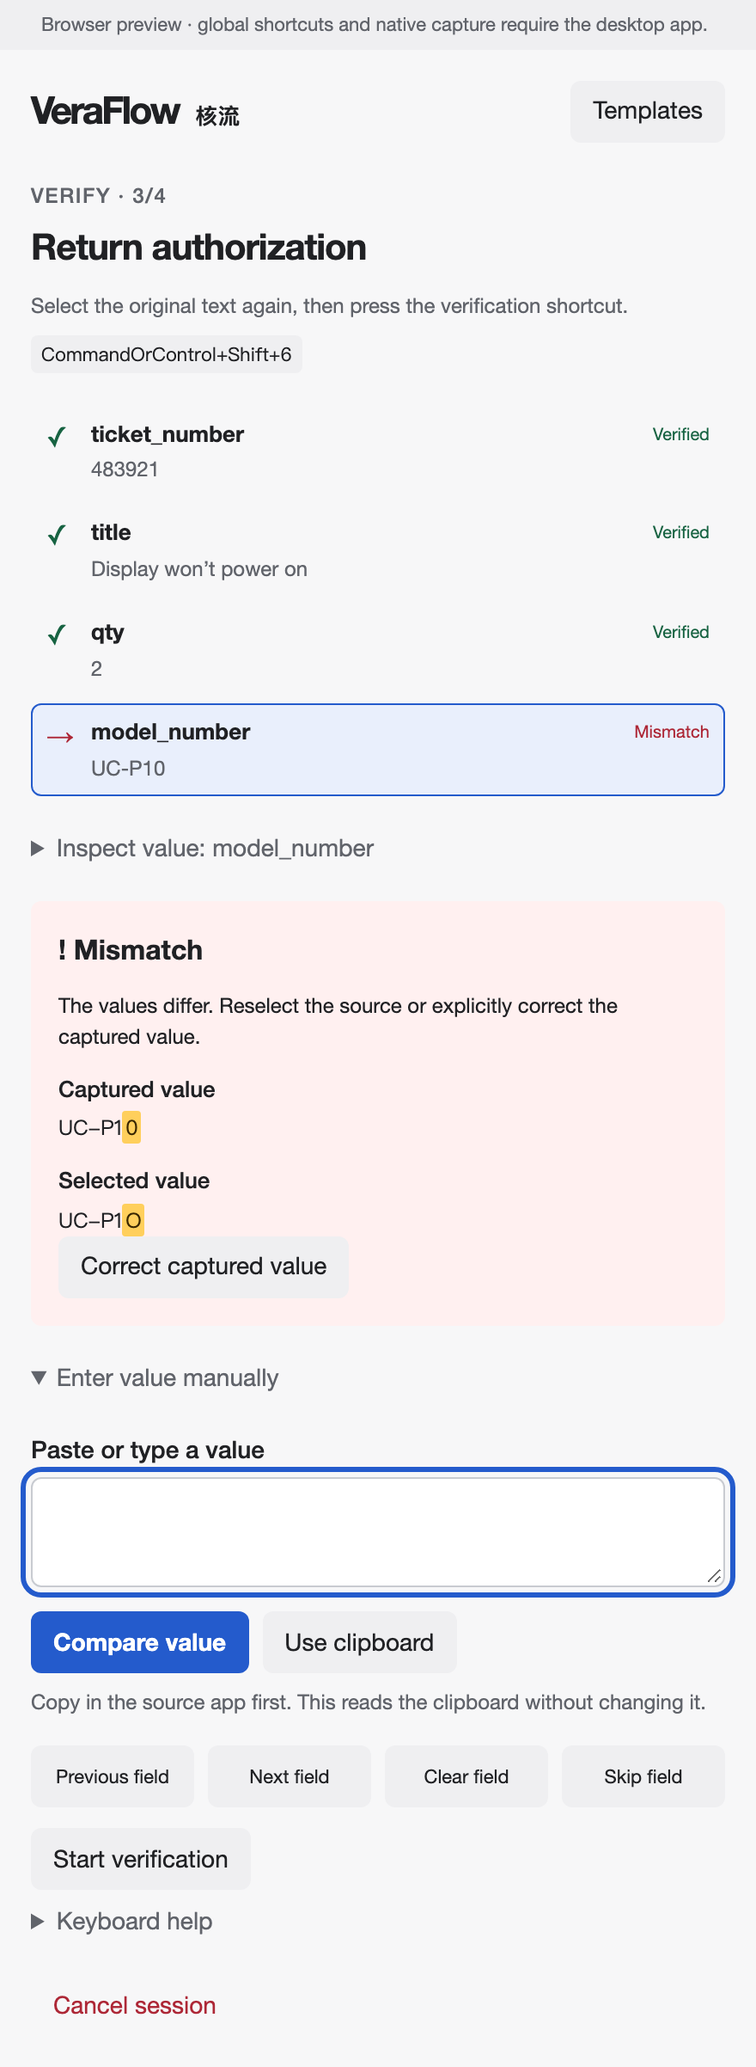
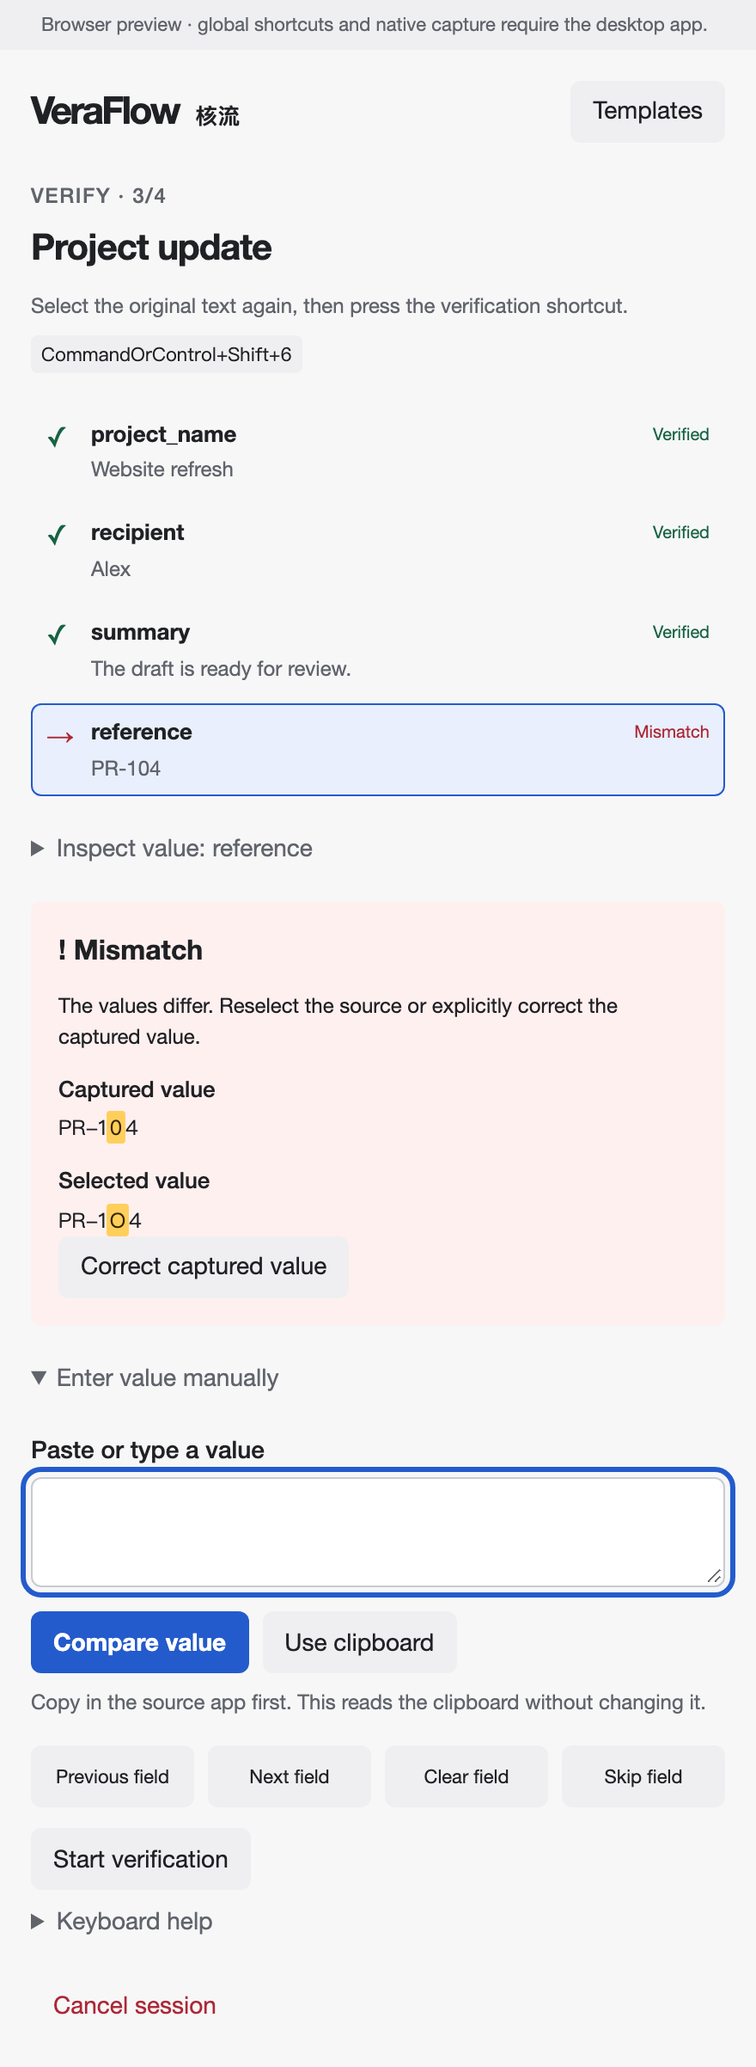
Release VeraFlow 0.3.0 keyboard workflow improvements

diff --git a/src/main.ts b/src/main.ts
@@ -119,6 +119,18 @@ function applyAppearance() {
 }
 function render() {
   applyAppearance();
+  const verified =
+    view === "session" &&
+    session?.mode === "ready" &&
+    session.template.verificationEnabled &&
+    session.fields.some((f) => f.status === "verified") &&
+    session.fields.every(
+      (f) => f.status === "verified" || f.status === "skipped",
+    );
+  document.body.classList.toggle(
+    "verified-background",
+    !!verified && library.preferences.verifiedBackground,
+  );
   root.className = view === "session" ? "compact" : "";
   root.innerHTML = `${view !== "session" ? `<header class="appbar"><span class="wordmark">VeraFlow <span lang="zh-CN">核流</span></span><nav aria-label="${esc(t("app"))}">${button("nav-templates", "templates", view === "templates" ? "selected" : "")}${session ? button("nav-session", "session") : ""}${button("nav-settings", "settings", view === "settings" ? "selected" : "")}</nav></header>` : ""}
     ${!desktop ? `<aside class="preview-banner">${esc(t("browserPreview"))}</aside>` : ""}
@@ -169,7 +181,7 @@ function editorView(): string {
   <div class="metadata"> <div>${field("template-name", "name", d.name, 'maxlength="250"')}</div><div>${field("template-folder", "folder", d.folder, 'maxlength="250"')}</div></div>
   <label for="template-content">${esc(t("content"))}</label><textarea id="template-content" class="code template-text" spellcheck="false" aria-describedby="placeholder-help">${esc(d.content)}</textarea><p id="placeholder-help" class="hint">${esc(t("placeholderHelp"))}</p>
   <div class="editor-bottom"><section><h2>${esc(t("fields"))}</h2><ol id="field-order" class="field-order">${orderView()}</ol></section><details><summary>${esc(t("templateSettings"))}</summary>${check("template-verify", "verificationEnabled", d.verificationEnabled)}${comparisonView(d.comparison, "template")}</details></div>
-  <div class="actions">${button("save", "save")}${button("start", "start", "primary")}</div>`;
+  <div class="actions">${button("save", "save")}${button("start", "start", "primary")}</div><p class="hint">${esc(t("keyboardHelp"))}</p>`;
 }
 function orderView(): string {
   return (
@@ -350,9 +362,9 @@ async function navigate(next: typeof view) {
 function settingsView(): string {
   const p = (settingsDraft ??= structuredClone(library.preferences));
   return `<main class="settings"><header><h1>${esc(t("settings"))}</h1></header><div class="settings-grid"><section><h2>${esc(t("general"))}</h2><label for="language">${esc(t("language"))}</label><select id="language"><option value="en" ${p.language === "en" ? "selected" : ""}>English</option><option value="zh-CN" ${p.language === "zh-CN" ? "selected" : ""}>简体中文</option></select><label for="theme">${esc(t("theme"))}</label><select id="theme">${(["SYSTEM", "LIGHT", "DARK"] as const).map((theme) => `<option value="${theme}" ${theme === p.theme ? "selected" : ""}>${esc(t(theme))}</option>`).join("")}</select>${check("launchAtLogin", "launchAtLogin", p.launchAtLogin)}${check("minimizeToTray", "minimizeToTray", p.minimizeToTray)}${check("alwaysOnTop", "alwaysOnTop", p.alwaysOnTop)}${check("autoAdvance", "autoAdvance", p.autoAdvance)}</section>
-  <section><h2>${esc(t("verification"))}</h2>${check("verificationDefault", "verificationDefault", p.verificationDefault)}${comparisonView(p.comparison, "default")}</section>
+  <section><h2>${esc(t("verification"))}</h2>${check("verificationDefault", "verificationDefault", p.verificationDefault)}${check("verifiedBackground", "verifiedBackground", p.verifiedBackground)}${comparisonView(p.comparison, "default")}</section>
   <section><h2>${esc(t("privacy"))}</h2>${check("clearAfterCompletion", "clearAfterCompletion", p.clearAfterCompletion)}${check("restoreClipboard", "restoreClipboard", p.restoreClipboard)}<p class="hint">${esc(t("quitPrivacy"))}</p></section>
-  <section><h2>${esc(t("shortcuts"))}</h2><p class="hint">${esc(t("shortcutHelp"))}</p>${actions.map((action) => field("key-" + action, action === "cancel" ? "cancelSession" : action, p.shortcuts[action], 'class="shortcut-input"')).join("")}</section></div><div class="actions">${button("save-settings", "saveSettings", "primary", locked)}</div><section class="about" aria-labelledby="about-heading"><h2 id="about-heading">${esc(t("about"))}</h2><p>${esc(t("copyright"))}</p><a id="repository-link" href="https://github.com/iandorsey00/veraflow" target="_blank" rel="noopener noreferrer">${esc(t("repository"))}</a></section></main>`;
+  <section><h2>${esc(t("shortcuts"))}</h2><p class="hint">${esc(t("keyboardHelp"))}</p><p class="hint">${esc(t("shortcutHelp"))}</p>${actions.map((action) => field("key-" + action, action === "cancel" ? "cancelSession" : action, p.shortcuts[action], 'class="shortcut-input"')).join("")}</section></div><div class="actions">${button("save-settings", "saveSettings", "primary", locked)}</div><section class="about" aria-labelledby="about-heading"><h2 id="about-heading">${esc(t("about"))}</h2><p>${esc(t("copyright"))}</p><a id="repository-link" href="https://github.com/iandorsey00/veraflow" target="_blank" rel="noopener noreferrer">${esc(t("repository"))}</a></section></main>`;
 }
 function bindSettings() {
   if (desktop)
@@ -372,6 +384,7 @@ function bindSettings() {
     "alwaysOnTop",
     "autoAdvance",
     "verificationDefault",
+    "verifiedBackground",
     "clearAfterCompletion",
     "restoreClipboard",
   ] as const)
@@ -533,12 +546,14 @@ function bindSession() {
     focus(manualOpen ? "manual-value" : `field-${session?.active ?? 0}`);
   });
 }
-async function accept(value: string) {
+async function accept(
+  value: string,
+  advance = library.preferences.autoAdvance,
+) {
   if (!session) return;
   if (value.length > 1024 * 1024) throw new Error("invalidText");
-  if (session.mode === "verify")
-    verify(session, value, library.preferences.autoAdvance);
-  else capture(session, value, library.preferences.autoAdvance);
+  if (session.mode === "verify") verify(session, value, advance);
+  else capture(session, value, advance);
   message = "";
   preview = false;
   render();
@@ -563,10 +578,12 @@ async function perform(action: Action) {
       if (s.mode === "verify")
         await accept(
           await platform.capture(library.preferences.restoreClipboard),
+          true,
         );
       else if (s.mode !== "ready")
         await accept(
           await platform.capture(library.preferences.restoreClipboard),
+          true,
         );
       return;
     case "verify":
@@ -577,6 +594,7 @@ async function perform(action: Action) {
       if (s.mode === "verify")
         await accept(
           await platform.capture(library.preferences.restoreClipboard),
+          true,
         );
       return;
     case "previous":
@@ -652,12 +670,47 @@ root.addEventListener("change", () => {
 });
 window.addEventListener("keydown", (event) => {
   if (
+    event.repeat ||
+    event.isComposing ||
+    busy ||
+    document.querySelector("dialog[open]")
+  )
+    return;
+  if (
     (event.metaKey || event.ctrlKey) &&
-    event.key === "Enter" &&
-    view === "session"
+    !event.altKey &&
+    !event.shiftKey &&
+    event.key === "Enter"
   ) {
     event.preventDefault();
-    document.getElementById("apply-value")?.click();
+    if (view === "templates") document.getElementById("start")?.click();
+    else if (
+      view === "session" &&
+      session?.mode !== "ready" &&
+      session?.mode !== "complete"
+    ) {
+      if (!manualOpen) {
+        manualOpen = true;
+        render();
+        focus("manual-value");
+      } else {
+        const value = (
+          document.getElementById("manual-value") as HTMLTextAreaElement
+        ).value;
+        void run(() => accept(value, true));
+      }
+    }
+  }
+  if (
+    view === "session" &&
+    event.altKey &&
+    !event.ctrlKey &&
+    !event.metaKey &&
+    !event.shiftKey &&
+    (event.key === "ArrowLeft" || event.key === "ArrowRight")
+  ) {
+    event.preventDefault();
+    dispatch(event.key === "ArrowLeft" ? "previous" : "next");
   }
 });
 window.addEventListener("beforeunload", (event) => {

diff --git a/tests/ui/workflow.spec.ts b/tests/ui/workflow.spec.ts
@@ -139,3 +139,54 @@ test("session remains intact across library navigation and requires cancellation
   await page.getByRole("button", { name: "Keep working" }).click();
   await expect(page.locator(".field-value").first()).toHaveText("483921");
 });
+
+test("keyboard start, capture and navigation; optional verified background", async ({
+  page,
+}) => {
+  await page.getByRole("button", { name: "Settings", exact: true }).click();
+  const green = page.getByLabel("Green background when verification succeeds");
+  await expect(green).not.toBeChecked();
+  await green.check();
+  await page.getByLabel("Advance automatically", { exact: true }).uncheck();
+  await page
+    .getByRole("button", { name: "Save settings", exact: true })
+    .click();
+  await page.getByRole("button", { name: "Templates", exact: true }).click();
+  await page
+    .getByLabel("Template text", { exact: true })
+    .fill("<name> <reference>");
+  await page.keyboard.press("Control+Enter");
+  await expect(page.locator("#field-0")).toBeFocused();
+  await page.keyboard.press("Control+Enter");
+  await expect(page.getByLabel("Paste or type a value")).toBeFocused();
+  await page.keyboard.type("Alex");
+  await page.keyboard.press("Control+Enter");
+  await expect(page.locator("#field-1")).toHaveAttribute(
+    "aria-current",
+    "step",
+  );
+  await page.keyboard.press("Alt+ArrowLeft");
+  await expect(page.locator("#field-0")).toHaveAttribute(
+    "aria-current",
+    "step",
+  );
+  await page.keyboard.press("Alt+ArrowRight");
+  await page.keyboard.type("PR-104");
+  await page.keyboard.press("Control+Enter");
+  await expect(page.locator("body")).not.toHaveClass(/verified-background/);
+  await page.keyboard.type("Alex");
+  await page.keyboard.press("Control+Enter");
+  await page.keyboard.type("PR-1O4");
+  await page.keyboard.press("Control+Enter");
+  await expect(page.getByRole("heading", { name: "! Mismatch" })).toBeVisible();
+  await expect(page.locator("body")).not.toHaveClass(/verified-background/);
+  await page.getByLabel("Paste or type a value").fill("PR-104");
+  await page.keyboard.press("Control+Enter");
+  await expect(page.locator("body")).toHaveClass(/verified-background/);
+  await expect(
+    page.getByRole("button", { name: "Copy result", exact: true }),
+  ).toBeFocused();
+  await page.keyboard.press("Alt+ArrowLeft");
+  await page.getByRole("button", { name: "Clear field", exact: true }).click();
+  await expect(page.locator("body")).not.toHaveClass(/verified-background/);
+});

diff --git a/src/locales/zh-CN.ts b/src/locales/zh-CN.ts
@@ -54,7 +54,8 @@ export const zh: Record<keyof typeof en, string> = {
   mismatch: "不匹配",
   skipped: "已跳过",
   current: "当前",
-  captureHelp: "在来源应用中选择文本，然后按采集快捷键。",
+  captureHelp:
+    "在来源应用中选择文本，然后按采集快捷键复制并前进到下一个待处理字段。",
   verifyHelp: "再次选择原始文本，然后按核验快捷键。",
   verifyStart: "开始核验",
   verifySelected: "核验选中文本",
@@ -92,6 +93,9 @@ export const zh: Record<keyof typeof en, string> = {
   launchAtLogin: "登录时启动",
   minimizeToTray: "关闭窗口时最小化到菜单栏或系统托盘",
   alwaysOnTop: "采集窗口置顶",
+  verifiedBackground: "核验成功后显示绿色背景",
+  keyboardHelp:
+    "Cmd/Ctrl+Enter 开始所选模板的会话；会话中打开手动输入或提交并前进。Alt+左/右箭头切换字段。",
   autoAdvance: "自动前进到下一字段",
   verification: "核验",
   verificationEnabled: "复制前核验",

diff --git a/src/locales/en.ts b/src/locales/en.ts
@@ -55,7 +55,7 @@ export const en = {
   skipped: "Skipped",
   current: "Current",
   captureHelp:
-    "Select text in your source app, then press the capture shortcut.",
+    "Select text in your source app, then press the capture shortcut to copy and advance to the next pending field.",
   verifyHelp:
     "Select the original text again, then press the verification shortcut.",
   verifyStart: "Start verification",
@@ -96,6 +96,9 @@ export const en = {
   launchAtLogin: "Launch at login",
   minimizeToTray: "Close window to menu bar / system tray",
   alwaysOnTop: "Keep capture window on top",
+  verifiedBackground: "Green background when verification succeeds",
+  keyboardHelp:
+    "Cmd/Ctrl+Enter starts the selected template. In a session, it opens manual entry or submits and advances. Alt+Left/Right moves between fields.",
   autoAdvance: "Advance automatically",
   verification: "Verification",
   verificationEnabled: "Verify before copying",

diff --git a/src/core/model.ts b/src/core/model.ts
@@ -39,6 +39,7 @@ export type Preferences = {
   minimizeToTray: boolean;
   alwaysOnTop: boolean;
   autoAdvance: boolean;
+  verifiedBackground: boolean;
   verificationDefault: boolean;
   clearAfterCompletion: boolean;
   restoreClipboard: boolean;
@@ -52,6 +53,7 @@ export const defaultPreferences: Preferences = {
   minimizeToTray: true,
   alwaysOnTop: true,
   autoAdvance: true,
+  verifiedBackground: false,
   verificationDefault: true,
   clearAfterCompletion: true,
   restoreClipboard: true,

diff --git a/src/style.css b/src/style.css
@@ -687,3 +687,13 @@ dialog::backdrop {
   display: inline-block;
   padding: 6px 0;
 }
+
+/* A calm optional success surface, using the existing light/dark palette. */
+body.verified-background,
+body.verified-background #app,
+body.verified-background .capture-panel {
+  background: var(--success-bg);
+}
+body.verified-background {
+  min-height: 100vh;
+}

diff --git a/src-tauri/src/storage.rs b/src-tauri/src/storage.rs
@@ -29,6 +29,8 @@ pub struct Preferences {
     pub minimize_to_tray: bool,
     pub always_on_top: bool,
     pub auto_advance: bool,
+    #[serde(default)]
+    pub verified_background: bool,
     pub verification_default: bool,
     pub clear_after_completion: bool,
     pub restore_clipboard: bool,
@@ -85,10 +87,20 @@ mod tests {
         serde_json::json!({
             "version":1,"templates":[{"id":"test","name":"Example","folder":"","content":"Hello <name>","fieldOrder":["name"],"verificationEnabled":true,
                 "comparison":{"mode":"exact","caseSensitive":true,"unicode":true,"punctuation":false,"collapseLines":false}}],
-            "preferences":{"language":"en","theme":"SYSTEM","launchAtLogin":false,"minimizeToTray":true,"alwaysOnTop":true,"autoAdvance":true,"verificationDefault":true,"clearAfterCompletion":true,"restoreClipboard":true,
+            "preferences":{"language":"en","theme":"SYSTEM","launchAtLogin":false,"minimizeToTray":true,"alwaysOnTop":true,"autoAdvance":true,"verifiedBackground":false,"verificationDefault":true,"clearAfterCompletion":true,"restoreClipboard":true,
                 "comparison":{"mode":"whitespace","caseSensitive":true,"unicode":true,"punctuation":false,"collapseLines":true},
                 "shortcuts":{"capture":"Control+1","previous":"Control+2","next":"Control+3","clear":"Control+4","skip":"Control+5","verify":"Control+6","cancel":"Control+7","finish":"Control+8"}}
         })
+    }
+    #[test]
+    fn old_preferences_default_to_neutral_background() {
+        let mut value = fixture();
+        value["preferences"]
+            .as_object_mut()
+            .unwrap()
+            .remove("verifiedBackground");
+        let library: Library = serde_json::from_value(value).unwrap();
+        assert!(!library.preferences.verified_background);
     }
     #[test]
     fn valid_library_round_trips() {

diff --git a/README.md b/README.md
@@ -32,11 +32,13 @@ macOS bundles appear under `src-tauri/target/release/bundle/`. Windows builds pr
 
 1. Create or edit a template with placeholders such as `<ticket_number>`, `<客户姓名>`, or `<地址>`. Repeated names share a field. Use a folder label to organize templates, and arrow buttons to change capture order.
 2. Start a session. The same window becomes a small, resizable, always-on-top panel. Return to the source app and select text.
-3. Press the capture shortcut. The panel stores the text and advances. You can also paste/type manually, or copy in the source app and choose **Use clipboard**. Cmd/Ctrl+Enter submits manual text.
+3. Press the capture shortcut. The panel stores the text and advances. You can also paste/type manually, or copy in the source app and choose **Use clipboard**. Cmd/Ctrl+Enter opens manual entry or submits and advances. Alt+Left/Right moves to the previous/next field within VeraFlow.
 4. After the last field, verification starts if enabled. Select each original value again and press the verification shortcut. A mismatch shows both values and emphasizes the differing span; it never overwrites the captured value.
 5. Preview if desired, then choose **Copy result** or use the finish shortcut. Values are erased by default after successful copying. Skipped fields render as empty text.
 
-Default global shortcuts use **Cmd/Ctrl+Shift+1…8**: capture, previous, next, clear, skip, verify/start verification, cancel, and finish. All are configurable in Settings, registered only during sessions, and paused while the template/settings screen is shown. Registration conflicts leave the previous set in place or report an error. Capture can also verify during the verification pass. Release shortcut modifiers promptly so the copy fallback can run.
+With a template selected, **Cmd/Ctrl+Enter** starts its session. Use Tab/Shift+Tab and Enter/Space to operate the remaining controls. In Settings → Verification, **Green background when verification succeeds** optionally colors the session area after all required fields pass (off by default).
+
+Default global shortcuts use **Cmd/Ctrl+Shift+1…8**: capture, previous, next, clear, skip, verify/start verification, cancel, and finish. All are configurable in Settings, registered only during sessions, and paused while the template/settings screen is shown. Registration conflicts leave the previous set in place or report an error. Capture can also verify during the verification pass. Capture and verification shortcuts always advance after success; the automatic advancement preference controls the manual buttons. Release shortcut modifiers promptly so the copy fallback can run.
 
 The **Verify** shortcut starts the second pass when capture is complete; subsequent presses retrieve source text. Without automatic advancement, use next/previous and start verification explicitly. All populated fields must pass when verification is required. Clear a field to recapture it; corrections invalidate its verification. Cancellation, replacement, quitting an active session, and discarding unsaved changes require confirmation.
 

diff --git a/docs/release.md b/docs/release.md
@@ -1,5 +1,9 @@
 # Release and rollback
 
+## 0.3.0 scope
+
+Recommended release cycle selected RC for focused keyboard workflow and optional verification styling. Version 0.3.0 adds functionality without changing native clipboard adapters or dependencies. Existing schema-1 libraries load with `verifiedBackground` defaulting to false. This remains an unsigned source/local preview release.
+
 ## 0.2.0 scope
 
 Full release cycle (FRC): the complete first MVP was uncommitted, including security-sensitive native capture. This is a source release and unsigned local preview, not a signed public installer release. Version 0.2.0 advances the original 0.1.0 development scaffold; storage schema remains version 1.
@@ -21,4 +25,4 @@ Close VeraFlow, back up `library.json` from the OS app-data directory, then repl
 
 ## Rollback
 
-Quit the app and reinstall the last known-good binary. Keep a backup of the library before any downgrade. This version does not change schema 1; if a future version does, restore its pre-upgrade library backup with the app closed. For source rollback, check out the known-good commit in a separate checkout and rebuild with locked dependencies. Do not delete app data to work around an error; corrupt libraries fail closed for recovery. There is no prior published binary for this initial release.
+Quit the app and reinstall the last known-good binary. Keep a backup of the library before any downgrade. Although the schema number remains 1, version 0.2.0 rejects the new `verifiedBackground` preference. Restore the pre-upgrade library backup with the app closed when downgrading to 0.2.0. For source rollback, check out the known-good commit in a separate checkout and rebuild with locked dependencies. Do not delete app data to work around an error; corrupt libraries fail closed for recovery. There is no prior published binary for this initial release.

diff --git a/docs/validation.md b/docs/validation.md
@@ -4,8 +4,8 @@
 
 - TypeScript strict checks and optimized Vite production build.
 - Eight core test groups: Unicode/unique placeholders, manual order, literal rendering, normalization combinations, difference spans, verification transitions, skip/clear/navigation, and memory erasure.
-- Four Rust tests: normalized shortcut aliases/invalid keys, plus persistence valid round trip, rejection of session-shaped properties at each boundary, and invalid metadata/rules/duplicate IDs.
-- Six Playwright scenarios: capture → mismatch → verify → copy → erase, template lifecycle/order/unsaved guard, Chinese/dark/narrow layout, session retention/cancel guard, and axe WCAG A/AA checks for light and dark editor/capture views.
+- Five Rust tests: backward-compatible preference default, normalized shortcut aliases/invalid keys, plus persistence valid round trip, rejection of session-shaped properties at each boundary, and invalid metadata/rules/duplicate IDs.
+- Seven Playwright scenarios: keyboard start/entry/navigation with automatic advancement disabled and optional verified background, capture → mismatch → verify → copy → erase, template lifecycle/order/unsaved guard, Chinese/dark/narrow layout, session retention/cancel guard, and axe WCAG A/AA checks for light and dark editor/capture views.
 - macOS native Objective-C and Rust compilation, Rust Clippy with warnings denied, and an unsigned arm64 macOS app bundle.
 - Native macOS launch, session startup without shortcut registration errors, compact-window transition, cancellation guard, and template persistence across app restart.
 - Synthetic screenshot review of editor, mismatch panel, and Chinese dark interface.

diff --git a/docs/portfolio/README.md b/docs/portfolio/README.md
@@ -5,7 +5,7 @@ Start `npm run dev`, then run `npm run portfolio:capture` (requires Playwright C
 | Image                          | Purpose / alt text                                                                                |
 | ------------------------------ | ------------------------------------------------------------------------------------------------- |
 | `01-template-library.png`      | VeraFlow template editor, unique placeholder fields, and capture order.                           |
-| `02-verification-mismatch.png` | Compact verification panel distinguishing UC-P10 from UC-P1O without changing the original value. |
+| `02-verification-mismatch.png` | Compact verification panel distinguishing PR-104 from PR-1O4 without changing the original value. |
 | `03-chinese-dark.png`          | Simplified Chinese template editing with system-independent dark appearance.                      |
 
 The editor uses the shared 1440 × 1000 baseline at 2×; the floating panel uses 440px width to represent its actual workflow. These are browser UI previews (the banner says so), not evidence of native hotkey operation. PNGs are curated documentation, not regression baselines. Refresh after substantive UI changes and review every visible value before publishing.

diff --git a/CHANGELOG.md b/CHANGELOG.md
@@ -1,5 +1,13 @@
 # Changelog
 
+## 0.3.0 — 2026-09-26
+
+- Start the selected template with Cmd/Ctrl+Enter; open manual entry or submit and advance with the same shortcut.
+- Navigate fields inside VeraFlow with Alt+Left/Right. Global capture and verification shortcuts advance after success even when automatic advancement is off.
+- Optional green background after successful verification, off by default, with English and Simplified Chinese settings.
+- Generic project-update portfolio screenshots and expanded keyboard/persistence regression coverage.
+- Existing libraries load with the new preference disabled. Back up the library before upgrading; 0.2.0 rejects the added preference on downgrade.
+
 ## 0.2.0 — 2026-09-24
 
 Initial MVP preview, advancing the development scaffold from 0.1.0.
